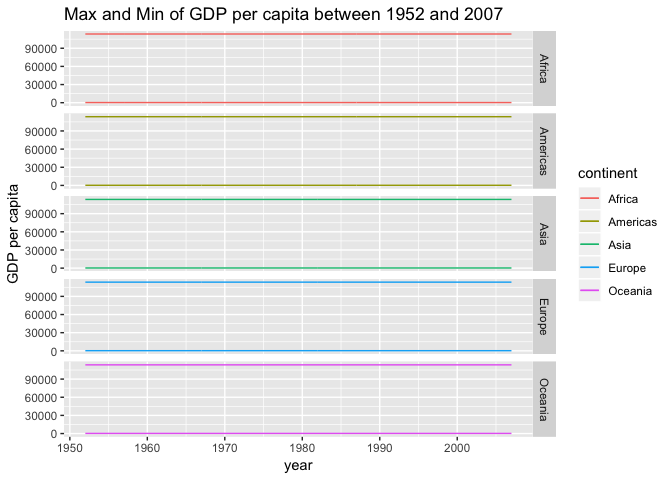
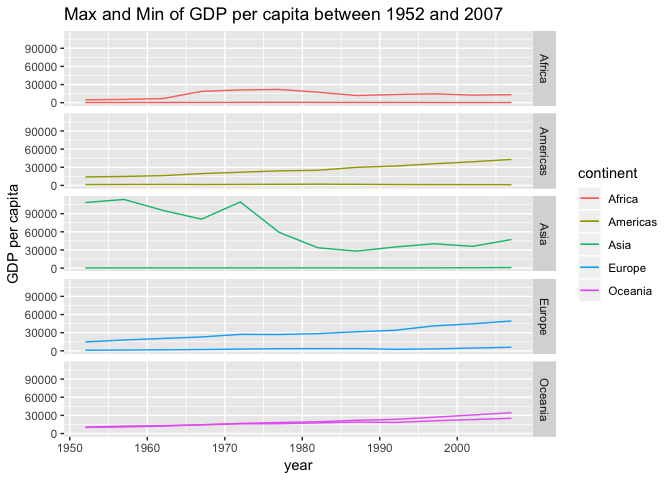
final version

diff --git a/hw03-lh563.md b/hw03-lh563.md
@@ -20,21 +20,30 @@ Explore the gapminder dataframe
 **2a. Get the maximum and minimum of GDP per capita for all continents.**
 
 ``` r
-maxmin_gdpPercap<-gapminder %>% 
+b<-gapminder %>% 
   group_by(continent) %>% 
   summarise(max_gdpPercap=max(gdpPercap),
-            min_gdpPercap=min(gdpPercap)) %>% 
-  knitr::kable()
+            min_gdpPercap=min(gdpPercap))
+  knitr::kable(b)
 ```
 
-**2b. Look at the spread of GDP per capita within the continents.**
+| continent      |   max\_gdpPercap|                             min\_gdpPercap|
+|:---------------|----------------:|------------------------------------------:|
+| Africa         |         21951.21|                                   241.1659|
+| Americas       |         42951.65|                                  1201.6372|
+| Asia           |        113523.13|                                   331.0000|
+| Europe         |         49357.19|                                   973.5332|
+| Oceania        |         34435.37|                                 10039.5956|
+| \*\*2b. Look a |  t the spread of|  GDP per capita within the continents.\*\*|
 
 ``` r
 gapminder %>% 
-  group_by(year) %>% 
-  ggplot(aes(x=year)) + #x axis=year
-  geom_line(aes(y=max(gdpPercap),color=continent))+ #geom_line plots the line with maximum gdpPercap variable as y axis
-  geom_line(aes(y=min(gdpPercap),color=continent))+ #geom_line plots the line with minimum gdpPercap variable as y axis
+  group_by(continent,year) %>% 
+  summarise(max_gdpPercap=max(gdpPercap),
+            min_gdpPercap=min(gdpPercap)) %>% 
+  ggplot(aes(x=year))+  #x axis=year
+  geom_line(aes(y=max_gdpPercap,color=continent))+ #geom_line plots the line with maximum gdpPercap variable as y axis
+  geom_line(aes(y=min_gdpPercap,color=continent))+ #geom_line plots the line with minimum gdpPercap variable as y axis
   facet_grid(continent~.)+ #facet separates the plots by continent
   labs(title="Max and Min of GDP per capita between 1952 and 2007",x="year",y="GDP per capita")
 ```
@@ -48,32 +57,247 @@ gapminder %>%
   ggplot(aes( continent, gdpPercap )) +
   scale_y_log10()+
   geom_boxplot( aes( fill = continent ))+
-  geom_jitter(width=0.2,alpha=0.2)
+  geom_jitter(width=0.2,alpha=0.2)+
+  labs( x = "continent", y = "GDP per capita", 
+              title = "Boxplot of GDP per capita for each continent")
 ```
 
 ![](hw03-lh563_files/figure-markdown_github/unnamed-chunk-3-1.png)
 
 ``` r
-  labs( x = "continent", y = "GDP per capita", 
-              title = "Boxplot of GDP per capita for each continent")
+gapminder %>% 
+  group_by(continent,year) %>% 
+  summarise(mean_gdpPercap=mean(gdpPercap),
+            sd_gdpPercap=sd(gdpPercap)) %>% 
+  ggplot(aes(x=year))+ #x axis=year
+  scale_y_log10()+
+  geom_point(aes(y=mean_gdpPercap,color=continent))+
+  geom_line(aes(y=mean_gdpPercap,color=continent))+ #geom_line plots the line with maximum gdpPercap variable as y axis
+  geom_errorbar(aes(ymin=mean_gdpPercap-sd_gdpPercap,ymax=mean_gdpPercap+sd_gdpPercap,width=-.9,color=continent))+
+  facet_grid(continent~.)+
+  labs(title="Mean of GDP per capita between 1952 and 2007",x="year",y="GDP per capita")
 ```
 
-    ## $x
-    ## [1] "continent"
-    ## 
-    ## $y
-    ## [1] "GDP per capita"
-    ## 
-    ## $title
-    ## [1] "Boxplot of GDP per capita for each continent"
-    ## 
-    ## attr(,"class")
-    ## [1] "labels"
+    ## Warning in self$trans$transform(x): NaNs produced
 
-Compute a trimmed mean of life expectancy for different years. Or a weighted mean, weighting by population. Just try something other than the plain vanilla mean.
+    ## Warning: Transformation introduced infinite values in continuous y-axis
 
-How is life expectancy changing over time on different continents?
+    ## Warning: Removed 21 rows containing missing values (geom_errorbar).
 
-Report the absolute and/or relative abundance of countries with low life expectancy over time by continent: Compute some measure of worldwide life expectancy – you decide – a mean or median or some other quantile or perhaps your current age. Then determine how many countries on each continent have a life expectancy less than this benchmark, for each year.
+![](hw03-lh563_files/figure-markdown_github/unnamed-chunk-4-1.png)
 
-Find countries with interesting stories. Open-ended and, therefore, hard. Promising but unsuccessful attempts are encouraged. This will generate interesting questions to follow up on in class.
+Conclusion -The Oceania continent has the highest mean of GDP/captita while the Africa lowest. At the same time, the standard deviation of Americas are high while the Asia continent has the lowest SD.
+
+**2c. Compute a trimmed mean of life expectancy for different years. Or a weighted mean, weighting by population. Just try something other than the plain vanilla mean.**
+
+``` r
+gapminder %>% 
+  group_by(year) %>% 
+  summarise(num=sum(as.numeric(pop)),
+            mean=mean(lifeExp),
+            weighted_mean=weighted.mean(lifeExp,pop)) %>%  #to calculate the weighted mean based on population
+  ggplot(aes(x=year))+
+  geom_line(aes(y=mean,color=1))+
+  geom_line(aes(y=weighted_mean,color=2))+
+  labs(x="year",y="lifeExp",title="Mean/Weighted mean of lifeExp for different years")
+```
+
+![](hw03-lh563_files/figure-markdown_github/unnamed-chunk-5-1.png)
+
+**2d.How is life expectancy changing over time on different continents? ** **Report the absolute and/or relative abundance of countries with low life expectancy over time by continent: Compute some measure of worldwide life expectancy – you decide – a mean or median or some other quantile or perhaps your current age. Then determine how many countries on each continent have a life expectancy less than this benchmark, for each year.**
+
+First, I calculate the mean lifeExp of that year for all the countries.
+
+``` r
+eachyear_lifeExp<-gapminder %>% 
+  select(year,lifeExp) %>% 
+  group_by(year) %>% 
+  summarise(mean_lifeExp=mean(lifeExp))
+knitr::kable(eachyear_lifeExp)
+```
+
+|     year|                                                                                                                                                                                                       mean\_lifeExp|
+|--------:|-------------------------------------------------------------------------------------------------------------------------------------------------------------------------------------------------------------------:|
+|     1952|                                                                                                                                                                                                            49.05762|
+|     1957|                                                                                                                                                                                                            51.50740|
+|     1962|                                                                                                                                                                                                            53.60925|
+|     1967|                                                                                                                                                                                                            55.67829|
+|     1972|                                                                                                                                                                                                            57.64739|
+|     1977|                                                                                                                                                                                                            59.57016|
+|     1982|                                                                                                                                                                                                            61.53320|
+|     1987|                                                                                                                                                                                                            63.21261|
+|     1992|                                                                                                                                                                                                            64.16034|
+|     1997|                                                                                                                                                                                                            65.01468|
+|     2002|                                                                                                                                                                                                            65.69492|
+|     2007|                                                                                                                                                                                                            67.00742|
+|  Next, I|  want to calculate whether the lifeExp for each country is less than the mean for continent each year.By the previous knowledge, the dataframe has 1704 rows, so we have to repeat the mean\_LifeExp for 142 times.|
+
+``` r
+a<-gapminder %>% 
+  mutate(mean_lifeExp=rep(eachyear_lifeExp$mean_lifeExp,142)) %>% 
+  mutate(low=(lifeExp < mean_lifeExp)) %>% 
+  select(continent,country,year, lifeExp,mean_lifeExp,low)
+
+Percentage_lifeExp<-a %>% 
+  group_by(continent,year) %>% 
+  summarise(n_percentlow=sum(low),
+            n_countries=n(),
+            percentage_low=100*n_percentlow/n_countries)
+knitr::kable(Percentage_lifeExp)
+```
+
+| continent |  year|  n\_percentlow|  n\_countries|  percentage\_low|
+|:----------|-----:|--------------:|-------------:|----------------:|
+| Africa    |  1952|             50|            52|        96.153846|
+| Africa    |  1957|             50|            52|        96.153846|
+| Africa    |  1962|             50|            52|        96.153846|
+| Africa    |  1967|             50|            52|        96.153846|
+| Africa    |  1972|             50|            52|        96.153846|
+| Africa    |  1977|             49|            52|        94.230769|
+| Africa    |  1982|             48|            52|        92.307692|
+| Africa    |  1987|             46|            52|        88.461539|
+| Africa    |  1992|             46|            52|        88.461539|
+| Africa    |  1997|             45|            52|        86.538461|
+| Africa    |  2002|             45|            52|        86.538461|
+| Africa    |  2007|             45|            52|        86.538461|
+| Americas  |  1952|              9|            25|        36.000000|
+| Americas  |  1957|              9|            25|        36.000000|
+| Americas  |  1962|              8|            25|        32.000000|
+| Americas  |  1967|              6|            25|        24.000000|
+| Americas  |  1972|              6|            25|        24.000000|
+| Americas  |  1977|              7|            25|        28.000000|
+| Americas  |  1982|              7|            25|        28.000000|
+| Americas  |  1987|              5|            25|        20.000000|
+| Americas  |  1992|              3|            25|        12.000000|
+| Americas  |  1997|              2|            25|         8.000000|
+| Americas  |  2002|              2|            25|         8.000000|
+| Americas  |  2007|              2|            25|         8.000000|
+| Asia      |  1952|             22|            33|        66.666667|
+| Asia      |  1957|             20|            33|        60.606061|
+| Asia      |  1962|             19|            33|        57.575758|
+| Asia      |  1967|             18|            33|        54.545454|
+| Asia      |  1972|             18|            33|        54.545454|
+| Asia      |  1977|             14|            33|        42.424242|
+| Asia      |  1982|             12|            33|        36.363636|
+| Asia      |  1987|             12|            33|        36.363636|
+| Asia      |  1992|             11|            33|        33.333333|
+| Asia      |  1997|             10|            33|        30.303030|
+| Asia      |  2002|             10|            33|        30.303030|
+| Asia      |  2007|             10|            33|        30.303030|
+| Europe    |  1952|              1|            30|         3.333333|
+| Europe    |  1957|              1|            30|         3.333333|
+| Europe    |  1962|              1|            30|         3.333333|
+| Europe    |  1967|              1|            30|         3.333333|
+| Europe    |  1972|              1|            30|         3.333333|
+| Europe    |  1977|              1|            30|         3.333333|
+| Europe    |  1982|              1|            30|         3.333333|
+| Europe    |  1987|              1|            30|         3.333333|
+| Europe    |  1992|              0|            30|         0.000000|
+| Europe    |  1997|              0|            30|         0.000000|
+| Europe    |  2002|              0|            30|         0.000000|
+| Europe    |  2007|              0|            30|         0.000000|
+| Oceania   |  1952|              0|             2|         0.000000|
+| Oceania   |  1957|              0|             2|         0.000000|
+| Oceania   |  1962|              0|             2|         0.000000|
+| Oceania   |  1967|              0|             2|         0.000000|
+| Oceania   |  1972|              0|             2|         0.000000|
+| Oceania   |  1977|              0|             2|         0.000000|
+| Oceania   |  1982|              0|             2|         0.000000|
+| Oceania   |  1987|              0|             2|         0.000000|
+| Oceania   |  1992|              0|             2|         0.000000|
+| Oceania   |  1997|              0|             2|         0.000000|
+| Oceania   |  2002|              0|             2|         0.000000|
+| Oceania   |  2007|              0|             2|         0.000000|
+
+``` r
+Percentage_lifeExp %>% 
+  ggplot(aes(year,percentage_low,color=continent))+
+  geom_line()+
+  labs(x="year",y="Percentage",title="Percentage of countries lower than the mean life Expectancy in the continent over the years")
+```
+
+![](hw03-lh563_files/figure-markdown_github/unnamed-chunk-7-1.png)
+
+``` r
+knitr::kable(Percentage_lifeExp)
+```
+
+| continent |  year|  n\_percentlow|  n\_countries|  percentage\_low|
+|:----------|-----:|--------------:|-------------:|----------------:|
+| Africa    |  1952|             50|            52|        96.153846|
+| Africa    |  1957|             50|            52|        96.153846|
+| Africa    |  1962|             50|            52|        96.153846|
+| Africa    |  1967|             50|            52|        96.153846|
+| Africa    |  1972|             50|            52|        96.153846|
+| Africa    |  1977|             49|            52|        94.230769|
+| Africa    |  1982|             48|            52|        92.307692|
+| Africa    |  1987|             46|            52|        88.461539|
+| Africa    |  1992|             46|            52|        88.461539|
+| Africa    |  1997|             45|            52|        86.538461|
+| Africa    |  2002|             45|            52|        86.538461|
+| Africa    |  2007|             45|            52|        86.538461|
+| Americas  |  1952|              9|            25|        36.000000|
+| Americas  |  1957|              9|            25|        36.000000|
+| Americas  |  1962|              8|            25|        32.000000|
+| Americas  |  1967|              6|            25|        24.000000|
+| Americas  |  1972|              6|            25|        24.000000|
+| Americas  |  1977|              7|            25|        28.000000|
+| Americas  |  1982|              7|            25|        28.000000|
+| Americas  |  1987|              5|            25|        20.000000|
+| Americas  |  1992|              3|            25|        12.000000|
+| Americas  |  1997|              2|            25|         8.000000|
+| Americas  |  2002|              2|            25|         8.000000|
+| Americas  |  2007|              2|            25|         8.000000|
+| Asia      |  1952|             22|            33|        66.666667|
+| Asia      |  1957|             20|            33|        60.606061|
+| Asia      |  1962|             19|            33|        57.575758|
+| Asia      |  1967|             18|            33|        54.545454|
+| Asia      |  1972|             18|            33|        54.545454|
+| Asia      |  1977|             14|            33|        42.424242|
+| Asia      |  1982|             12|            33|        36.363636|
+| Asia      |  1987|             12|            33|        36.363636|
+| Asia      |  1992|             11|            33|        33.333333|
+| Asia      |  1997|             10|            33|        30.303030|
+| Asia      |  2002|             10|            33|        30.303030|
+| Asia      |  2007|             10|            33|        30.303030|
+| Europe    |  1952|              1|            30|         3.333333|
+| Europe    |  1957|              1|            30|         3.333333|
+| Europe    |  1962|              1|            30|         3.333333|
+| Europe    |  1967|              1|            30|         3.333333|
+| Europe    |  1972|              1|            30|         3.333333|
+| Europe    |  1977|              1|            30|         3.333333|
+| Europe    |  1982|              1|            30|         3.333333|
+| Europe    |  1987|              1|            30|         3.333333|
+| Europe    |  1992|              0|            30|         0.000000|
+| Europe    |  1997|              0|            30|         0.000000|
+| Europe    |  2002|              0|            30|         0.000000|
+| Europe    |  2007|              0|            30|         0.000000|
+| Oceania   |  1952|              0|             2|         0.000000|
+| Oceania   |  1957|              0|             2|         0.000000|
+| Oceania   |  1962|              0|             2|         0.000000|
+| Oceania   |  1967|              0|             2|         0.000000|
+| Oceania   |  1972|              0|             2|         0.000000|
+| Oceania   |  1977|              0|             2|         0.000000|
+| Oceania   |  1982|              0|             2|         0.000000|
+| Oceania   |  1987|              0|             2|         0.000000|
+| Oceania   |  1992|              0|             2|         0.000000|
+| Oceania   |  1997|              0|             2|         0.000000|
+| Oceania   |  2002|              0|             2|         0.000000|
+| Oceania   |  2007|              0|             2|         0.000000|
+
+\*\* 2e.Find countries with interesting stories. Open-ended and, therefore, hard. Promising but unsuccessful attempts are encouraged. This will generate interesting questions to follow up on in class.\*\*
+
+``` r
+Asiancountry2007 <-subset(gapminder,(year==2007)&(continent=="Asia"),select=c(country,pop))
+                         
+Asiancountry2007plot<-ggplot(Asiancountry2007,aes(country,pop,color=country))+
+  geom_point()+
+  labs(x="country",y="pop",title="The population of Asian countries in 2007")
+Asiancountry2007plot
+```
+
+![](hw03-lh563_files/figure-markdown_github/unnamed-chunk-8-1.png)
+
+``` r
+# The plot tells us China and India have the most population in Asia. 
+```
